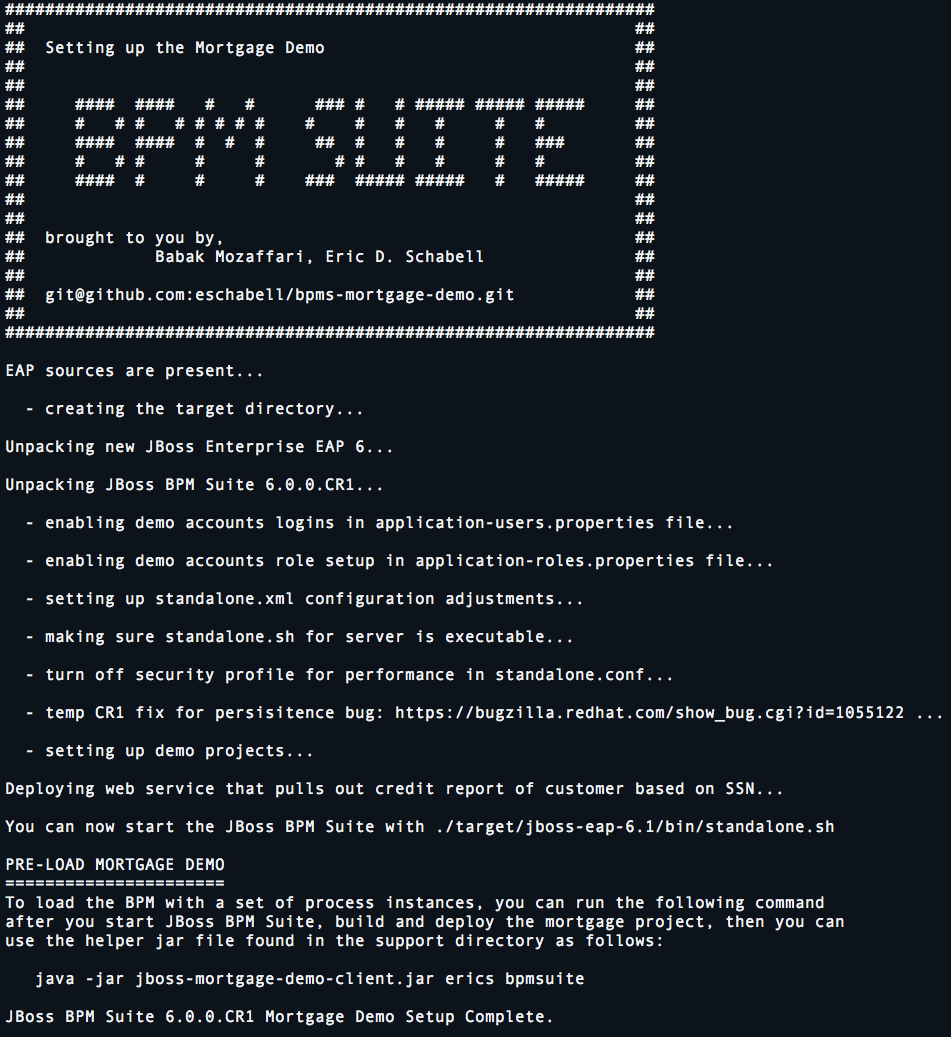
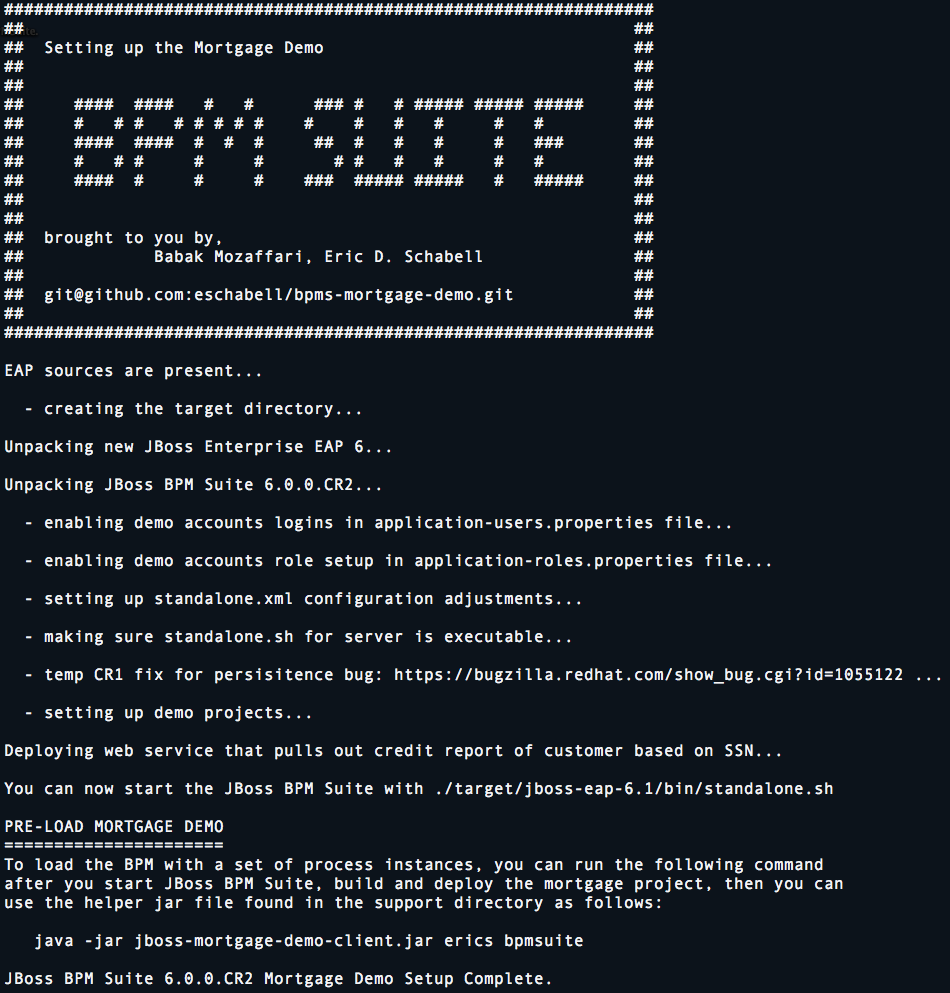
Updated to use CR2 product.

Changed region(s): [[0.0, 0.0, 0.9463, 0.999], [0.3053, 0.0937, 0.6105, 0.1873], [0.0611, 0.0937, 0.2747, 0.1873]]

diff --git a/README.md b/README.md
@@ -72,6 +72,8 @@ Released versions
 
 See the tagged releases for the following versions of the product:
 
+- v0.6 - JBoss BPM Suite 6.0.0.CR1, JBoss EAP 6.1.1, and mortgage demo installed, optional mock data population.
+
 - v0.5 - JBoss BPM Suite 6.0.0.CR1, JBoss EAP 6.1.1, and mortgage demo installed, optional mock data population.
 
 - v0.4 - JBoss BPM Suite 6.0.0.Beta, JBoss EAP 6.1.1, mock data populated in Process and Task dashboard, and mortgage demo installed.
